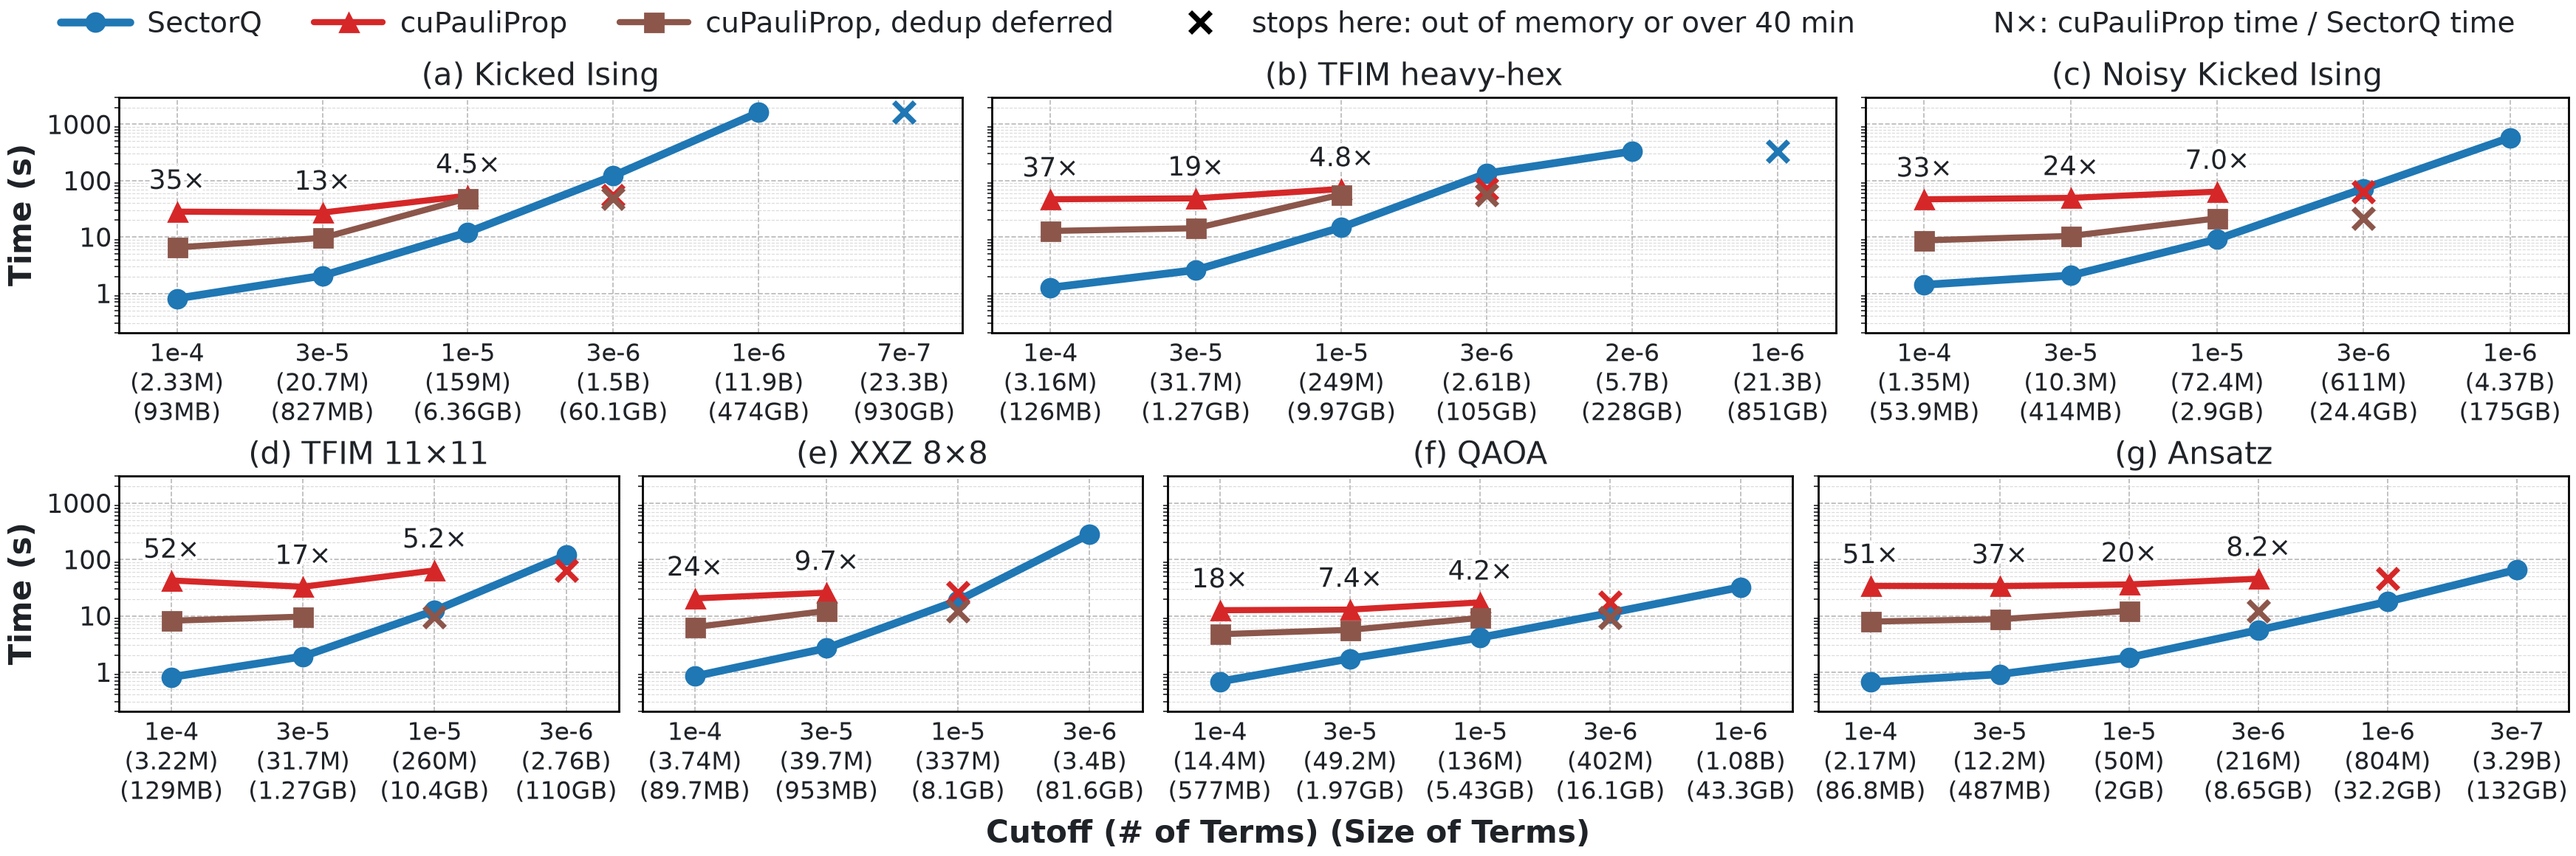
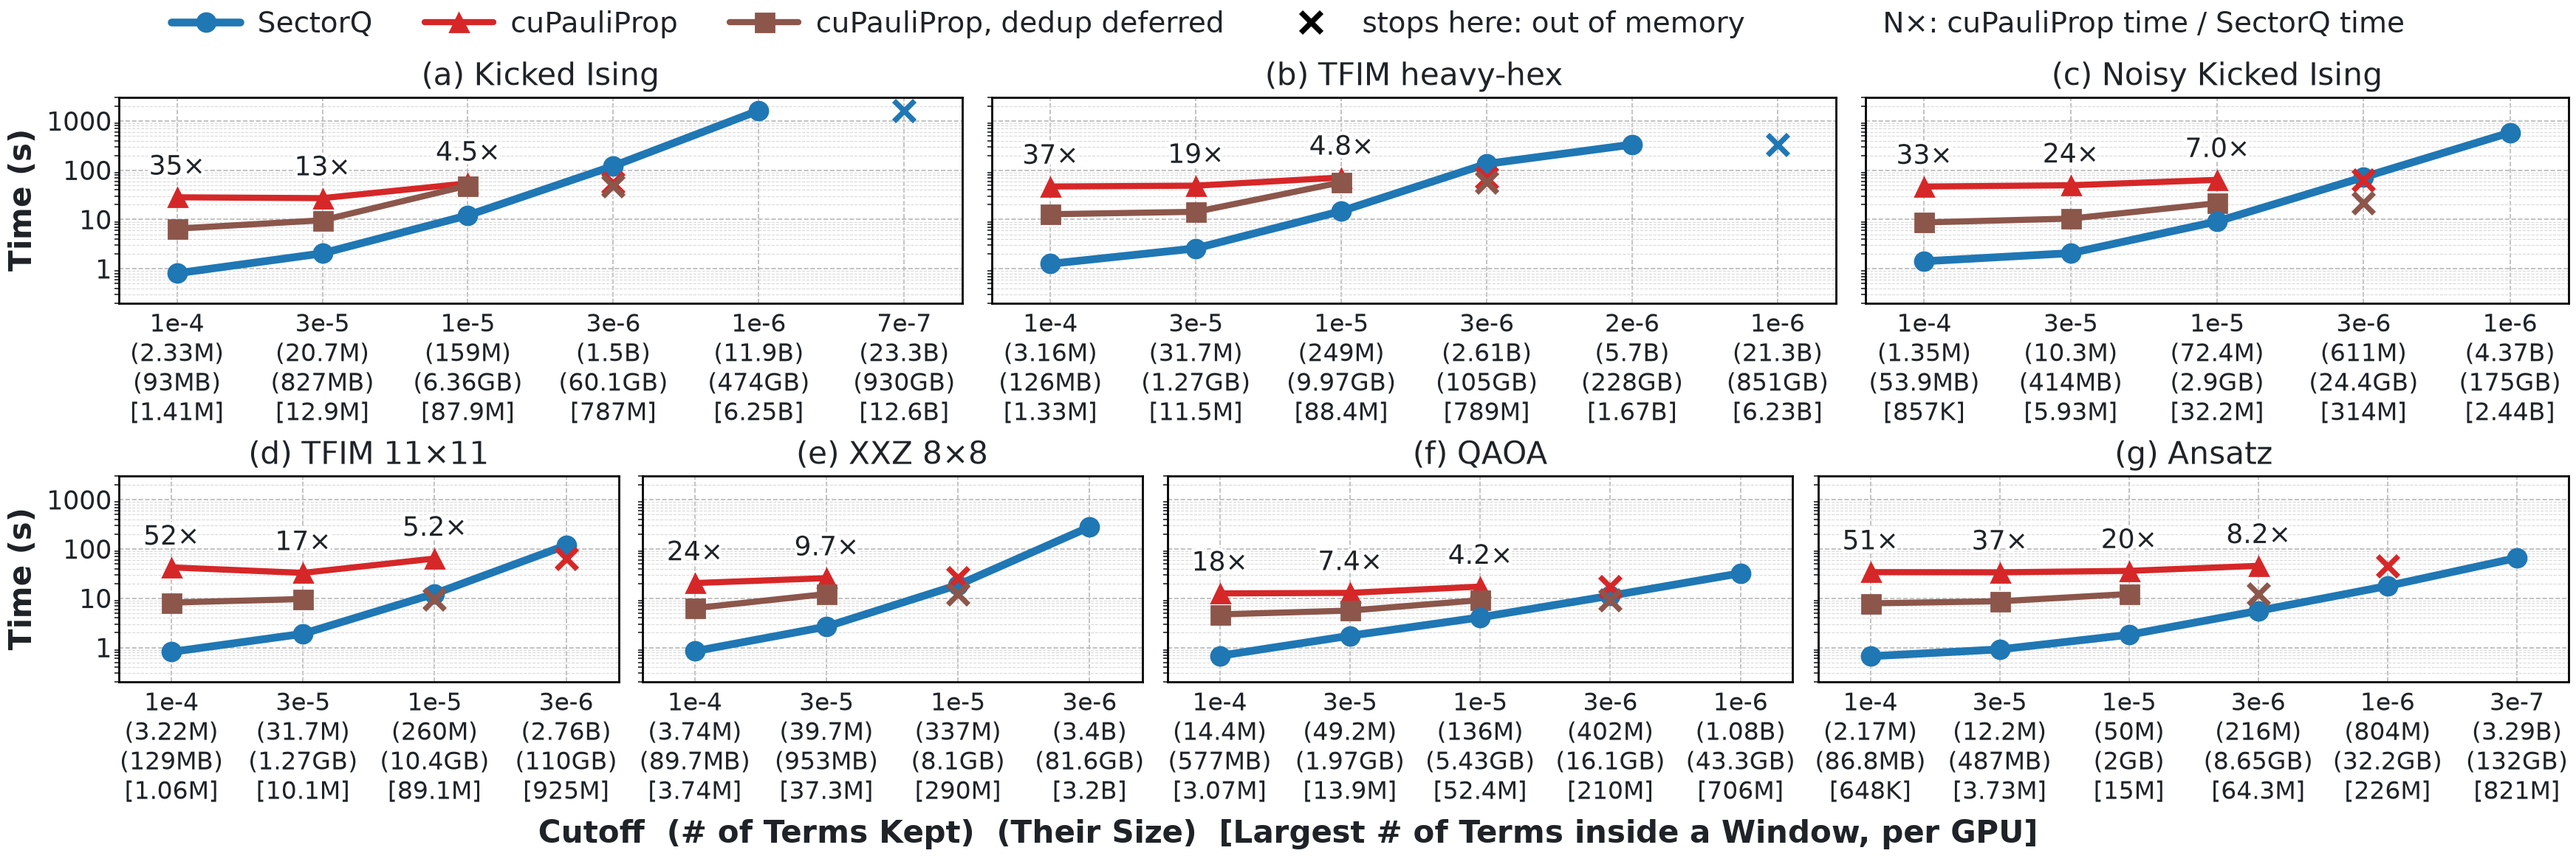
Deck circuit figures: peak terms per GPU under each cutoff, crosses named by their cause
Under a cutoff the two wide figures now print (terms kept at window boundaries), (their size) and, in square
brackets, the largest number of terms inside a window divided by the GPU count: what one GPU has to hold when all
terms are kept on the GPUs. cuPauliProp's default mode finishes while that number is at most 89 million and runs out
of memory from 98-120 million on (seven circuits on 16 GPUs, three on 128). The legend of the crosses says what
stopped the runs of the figure: in both figures every cross is out of memory.

Changed region(s): [[0.0, 0.5586, 1.0, 0.9931], [0.0, 0.1241, 1.0, 0.4966], [0.0312, 0.0, 0.9688, 0.0621]]

diff --git a/figures/make_deck_figures.py b/figures/make_deck_figures.py
@@ -579,6 +579,42 @@ def d_circuits_b():
     d_circuits("d_circuits_b", ("xxz", "qaoa", "hea"), True)
 
 
+def peaks_of(c, cutoffs):
+    """{cutoff: the largest number of terms inside a window} of one circuit, from any SectorQ run of the problem (the
+    number belongs to the problem: runs on different GPU counts report the same one)."""
+    G, out = campaign(), {}
+    for x in cutoffs:
+        for n in reversed(mf.GPUS_G):
+            run = G.get(f"eng.{c}.{x}.g{n}")
+            det = mf.gdetail(run) if mf.gok(run) else None
+            if det and det.get("inside"):
+                out[x] = det["inside"]
+                break
+    for r in scaling_jobs():                                # problems that only more than 16 GPUs finished
+        if r["kind"] == "engine" and r["circuit"] == mf.BIG_NAME.get(c) and mf.ok(r) and r.get("inside"):
+            out.setdefault(r["opt"]["--coef"], r["inside"])
+    return out
+
+
+def peak_line(ax, peaks, g):
+    """One more line under every tick label: the largest number of terms inside a window divided by the GPU count,
+    which is what one GPU has to hold when all terms are kept on the GPUs (cuPauliProp holds about 100 million)."""
+    out = []
+    for t in ax.get_xticklabels():
+        n = peaks.get(t.get_text().split("\n")[0])
+        out.append(t.get_text() + "\n" + (f"[{mf.count(n / g).replace(' ', '')}]" if n else ""))       # short: the x label says "per GPU"
+    ax.set_xticklabels(out, fontsize=ax.get_xticklabels()[0].get_fontsize())
+
+
+def stops(reasons):
+    """The legend text of the crosses: what stopped the runs of this figure."""
+    reasons = {r for r in reasons if r}
+    return "stops here: out of memory" if reasons == {"out of memory"} else "stops here: out of memory or over 40 min"
+
+
+XL4 = "Cutoff  (# of Terms Kept)  (Their Size)  [Largest # of Terms inside a Window, per GPU]"
+
+
 def d_circuits_all():
     """All seven circuits on 16 GPUs in one picture as wide as a slide (1744 x 580 px there). Two rows of panels whose
     widths follow their numbers of cutoffs, so that the tick labels have one size: the three main circuits above,
@@ -607,12 +643,15 @@ def d_circuits_all():
         ax.set_yticks([1, 10, 100, 1000])
         ax.set_xlabel("")
         ticks = [t.get_text().split("\n")[0] for t in ax.get_xticklabels()]
+        peak_line(ax, peaks_of(which[j], ticks), 16)
         ours, cupp = dict(rows[3 * j][2]), dict(rows[3 * j + 1][2])
         for x in ticks:
             if x in ours and x in cupp:
                 value(ax, ticks.index(x), cupp[x], mf.times(cupp[x], ours[x]), dy=8, size=13)
-    fig.supxlabel("Cutoff (# of Terms) (Size of Terms)", fontsize=15, fontweight="bold")
-    e = entries(fig, panels[0]) + [(Line2D([0], [0], color="none"), "N×: cuPauliProp time / SectorQ time")]
+    fig.supxlabel(XL4, fontsize=15, fontweight="bold")
+    e = entries(fig, panels[0])
+    e[-1] = (e[-1][0], stops(r[3][1] for r in rows if r[3]))
+    e += [(Line2D([0], [0], color="none"), "N×: cuPauliProp time / SectorQ time")]
     fig.legend([a for a, _ in e], [b for _, b in e], loc="upper center", bbox_to_anchor=(0.5, 1 - 0.07 / 5.8), ncol=len(e), fontsize=14,
                columnspacing=1.8, handlelength=2.4, handletextpad=0.6, borderpad=0, borderaxespad=0, frameon=False)
     fig.draw_without_rendering()
@@ -647,11 +686,11 @@ def circuits_big(g, ladder=("1e-4", "3e-5", "1e-5", "5e-6", "3e-6", "2e-6", "1e-
     fig = plt.figure(figsize=(17.44, 5.8), layout="constrained")
     fig.get_layout_engine().set(w_pad=0.05, h_pad=0.04, wspace=0.03, rect=(0, 0, 1, 0.935))     # the legend line above
     grid = fig.add_gridspec(1, 3, width_ratios=[len(cuts[c]) for c, _ in mf.G3])
-    panels, rows = [], {}
+    panels, rows, why = [], {}, set()
     for j, (c, title) in enumerate(mf.G3):
         ax = fig.add_subplot(grid[0, j])
         panels.append(ax)
-        more = {}
+        more, peak = {}, {}
         for kind in kinds:
             recs = [run(kind, c, x) for x in cuts[c]]
             pts = [(i, r["wall"]) for i, r in enumerate(recs) if mf.ok(r)]
@@ -662,12 +701,15 @@ def circuits_big(g, ladder=("1e-4", "3e-5", "1e-5", "5e-6", "3e-6", "2e-6", "1e-
                 fail = next((i for i in range(pts[-1][0] + 1, len(recs)) if recs[i] is not None), None)
                 if fail is not None:
                     ax.plot([fail], [pts[-1][1]], color=col, marker="x", markersize=12, markeredgewidth=2.8, linestyle="none", zorder=5)
+                    why.add("out of memory" if recs[fail]["fatal"] else "over 40 min")
             rows[c, kind] = {cuts[c][i]: w for i, w in pts}
             if kind == "ours":
                 more = {cuts[c][i]: r["boundary"] for i, r in enumerate(recs) if mf.ok(r) and r.get("boundary")}
+                peak = {cuts[c][i]: r["inside"] for i, r in enumerate(recs) if mf.ok(r) and r.get("inside")}
         mf.sq_axes(ax, None, "Simulation Time (s)" if j == 0 else None, size=15)
         ax.set_xticks(range(len(cuts[c])))
         ax.set_xticklabels(mf.cut_ticks(G, c, cuts[c], more=more), fontsize=12.5)
+        peak_line(ax, peak, g)
         ax.set_xlim(-0.4, len(cuts[c]) - 0.6)
         ax.set_ylim(0.5, 3000)
         ax.set_yticks([1, 10, 100, 1000])
@@ -676,8 +718,10 @@ def circuits_big(g, ladder=("1e-4", "3e-5", "1e-5", "5e-6", "3e-6", "2e-6", "1e-
         for i, x in enumerate(cuts[c]):                     # how many times as long the default mode takes as SectorQ
             if x in rows[c, "ours"] and x in rows[c, "cupp"]:
                 value(ax, i, rows[c, "cupp"][x], mf.times(rows[c, "cupp"][x], rows[c, "ours"][x]), dy=9, size=14)
-    fig.supxlabel("Cutoff (# of Terms) (Size of Terms)", fontsize=15, fontweight="bold")
-    e = entries(fig, panels[0]) + [(Line2D([0], [0], color="none"), "N×: cuPauliProp time / SectorQ time")]
+    fig.supxlabel(XL4, fontsize=15, fontweight="bold")
+    e = entries(fig, panels[0])
+    e[-1] = (e[-1][0], stops(why))
+    e += [(Line2D([0], [0], color="none"), "N×: cuPauliProp time / SectorQ time")]
     fig.legend([a for a, _ in e], [b for _, b in e], loc="upper center", bbox_to_anchor=(0.5, 1 - 0.07 / 5.8), ncol=len(e), fontsize=14,
                columnspacing=1.8, handlelength=2.4, handletextpad=0.6, borderpad=0, borderaxespad=0, frameon=False)
     fig.draw_without_rendering()
